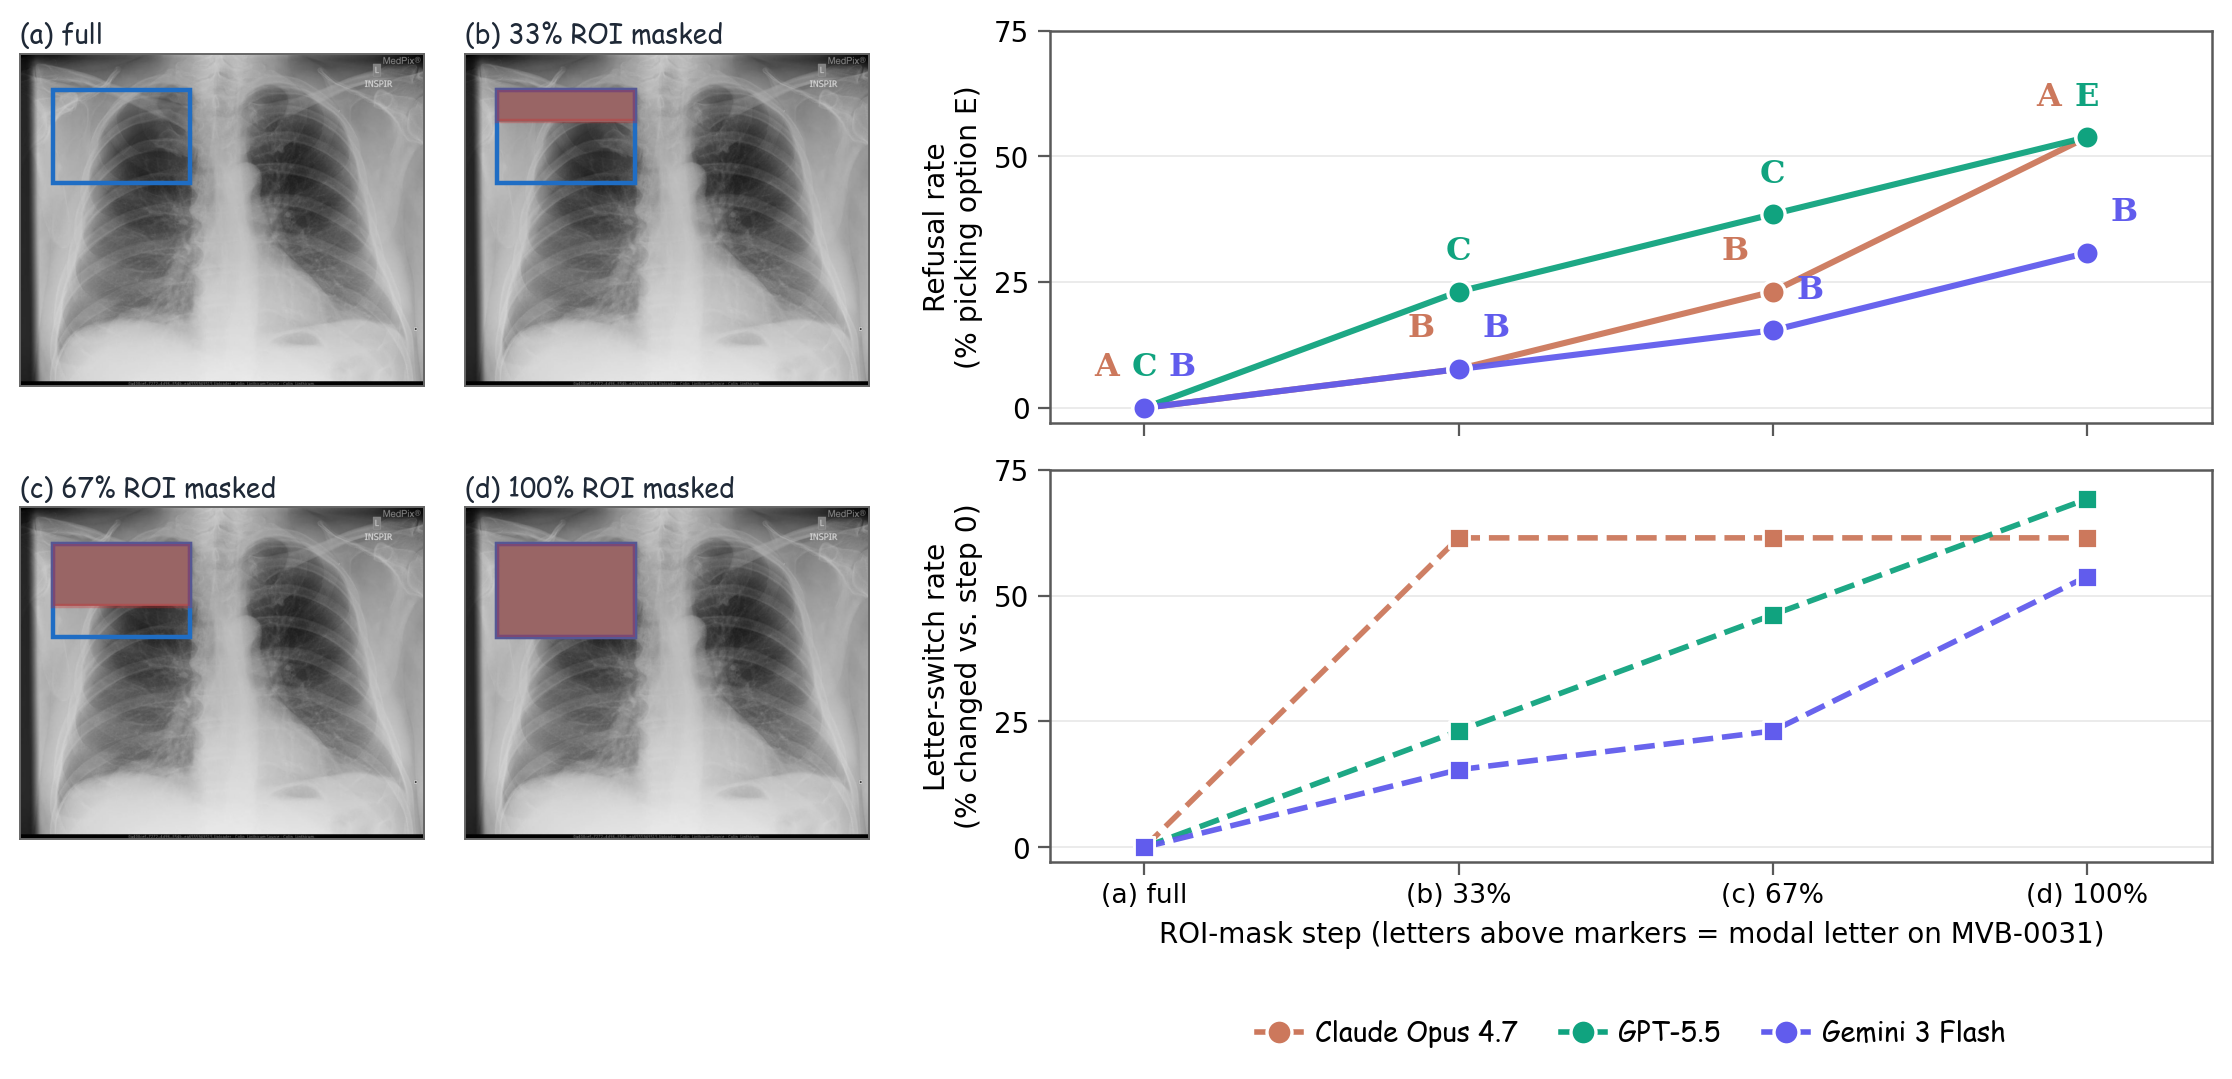
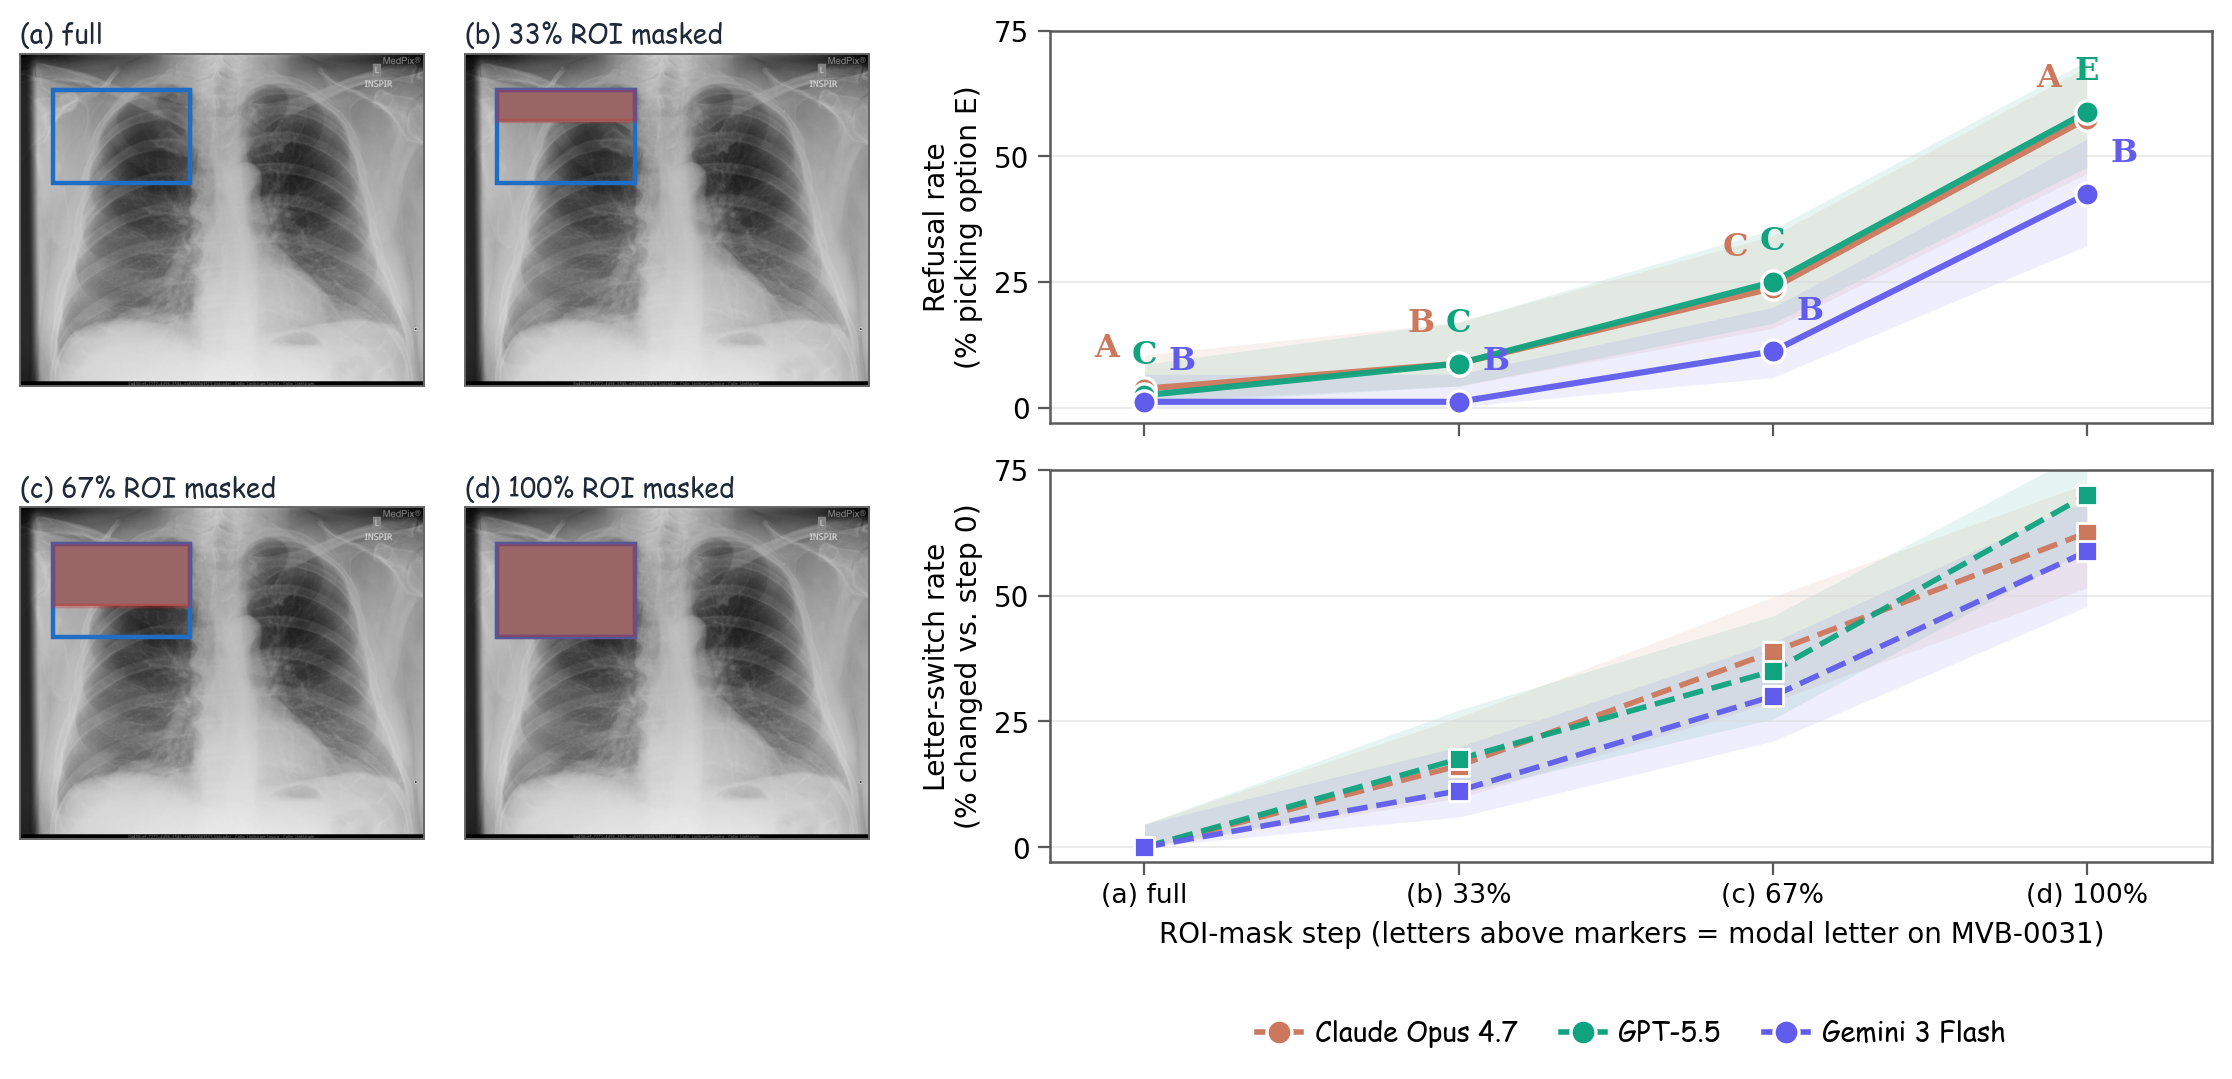
Update visual-token ablation: n=80 (16/CRT tier) + Wilson 95% CIs

Changed region(s): [[0.4946, 0.0612, 0.9583, 0.3976], [0.4946, 0.4282, 0.9583, 0.7952], [0.5874, 0.5811, 0.6183, 0.6117]]

diff --git a/index.html b/index.html
@@ -373,7 +373,7 @@
     <p>For each pilot case we progressively replace the doctor-defined ROI with mid-grey at four steps (full / 33% / 67% / 100% masked) and watch how each flagship model's modal letter changes. A <em>grounded</em> model picks the doctor-defined refusal option (E) more often as the ROI is destroyed; an <em>ungrounded</em> model commits to the same non-refusal letter regardless. The bold serif letters above each marker are the model's modal answer on the example case (MVB-0031): Gemini 3 Flash picks <strong>B</strong> at every single step, even with 100% of the answer-relevant pixels removed — the smoking-gun failure mode.</p>
     <figure class="figure">
       <img src="static/images/fig_visual_token_ablation.png" alt="Visual-token ablation: progressive ROI mask vs. answer trajectory">
-      <figcaption>Left: 2×2 thumbnails of one example case at four ROI-mask steps (blue = ROI; red = portion masked). Right top: refusal rate (% picking option E) climbs 0→54% for both Claude Opus and GPT-5.5 but only 0→31% for Gemini 3 Flash. Right bottom: letter-switch rate vs. step 0. Pilot n=13 stratified cases, three flagship API models, five self-consistency samples per cell.</figcaption>
+      <figcaption>Left: 2×2 thumbnails of one example case at four ROI-mask steps (blue = ROI; red = portion masked). Right top: refusal rate (% picking option E) climbs to 58.8% for GPT-5.5 [Wilson 95% CI 47.9–68.9] and 57.5% for Claude Opus 4.7 [46.6–67.7], but only 42.5% for Gemini 3 Flash [32.2–53.4]. Right bottom: letter-switch rate vs. step 0; shaded bands are Wilson 95% CIs. Pilot <em>n</em>=80 stratified cases (16 per CRT tier), three flagship API models, five self-consistency samples per cell.</figcaption>
     </figure>
   </div>
 </section>